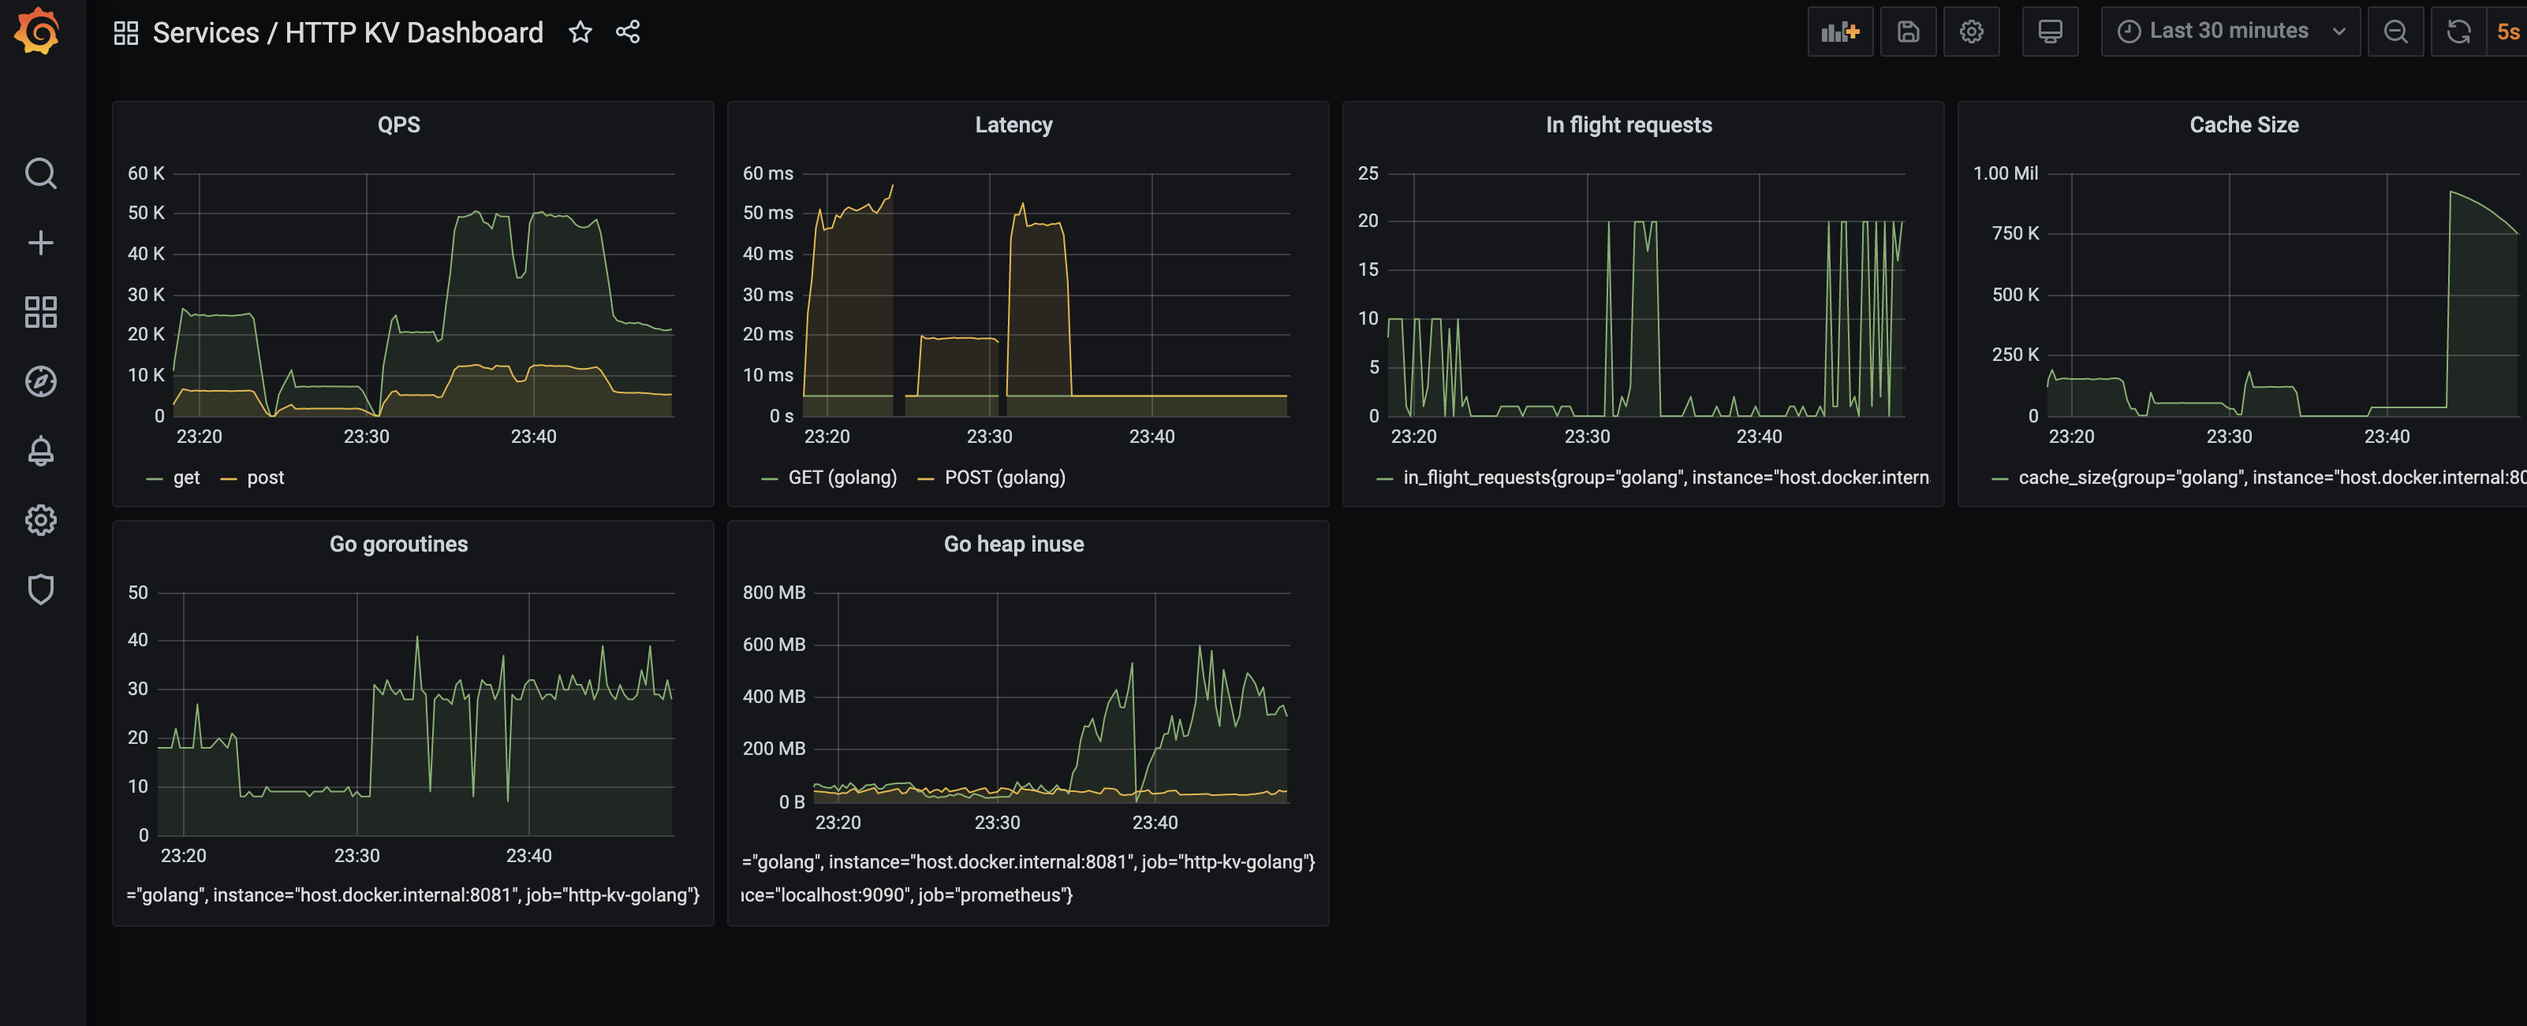
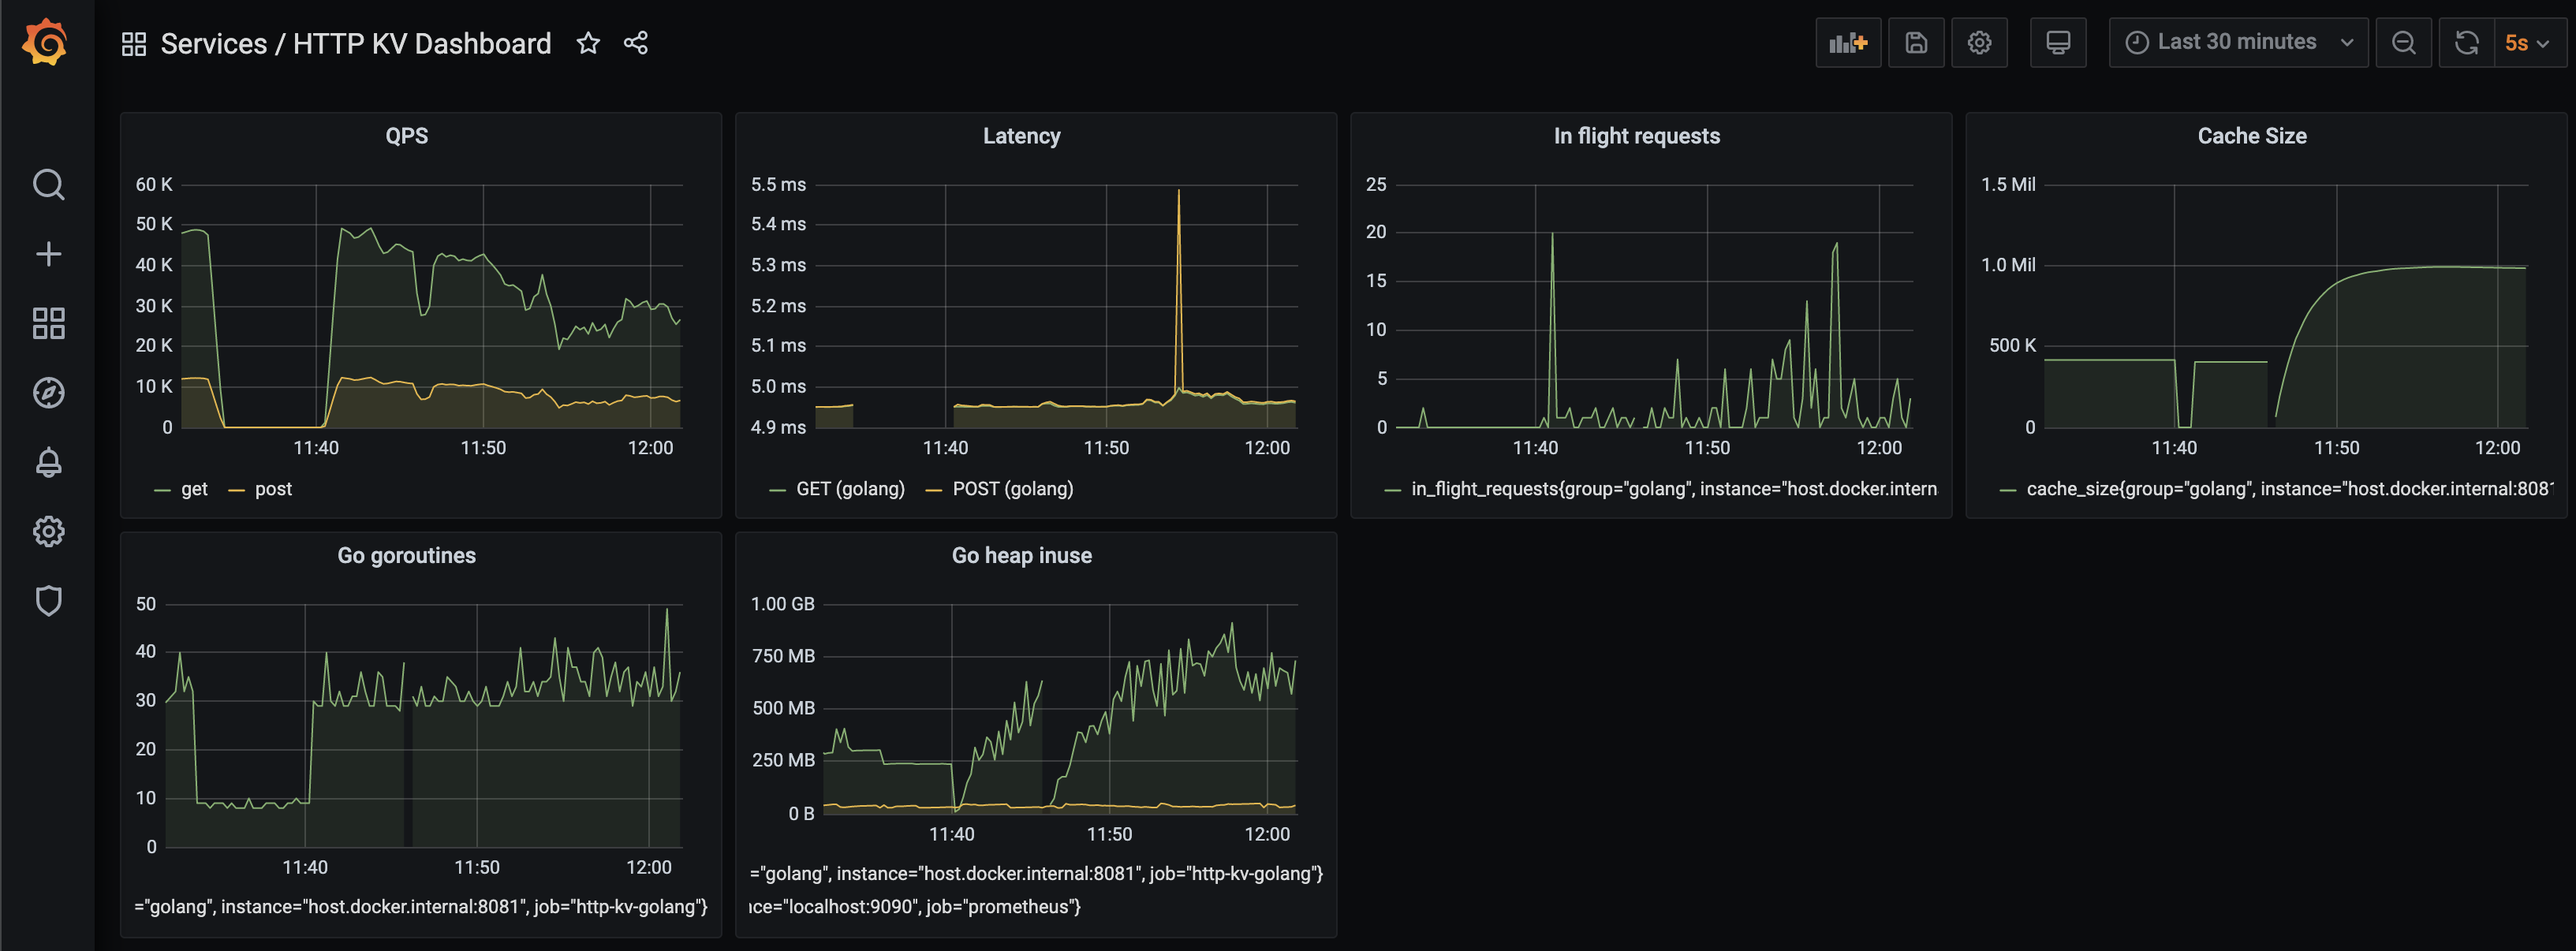
Use an async counter and set min vaccum loop sleep time to increase performance

diff --git a/golang/cache/cache.go b/golang/cache/cache.go
@@ -34,11 +34,12 @@ type Cache interface {
 type SyncmapCache struct {
 	expireDuration time.Duration
 	m              syncmap.Map
+	c              *counter
 }
 
 // NewSyncmapCache is for creating a new SyncmapCache
 func NewSyncmapCache(expireDuration time.Duration) *SyncmapCache {
-	cache := SyncmapCache{m: syncmap.Map{}, expireDuration: expireDuration}
+	cache := SyncmapCache{m: syncmap.Map{}, expireDuration: expireDuration, c: newCounter()}
 	cache.vaccum()
 	return &cache
 }
@@ -53,6 +54,8 @@ func (sc *SyncmapCache) Get(key string) string {
 
 	if time.Now().After(value.timestamp.Add(sc.expireDuration)) {
 		sc.m.Delete(key)
+		sc.c.dec()
+		cacheSizeGauge.Dec()
 		return ""
 	}
 	return value.value
@@ -61,11 +64,24 @@ func (sc *SyncmapCache) Get(key string) string {
 // Set is for impl of Cache for SyncmapCache - set value
 func (sc *SyncmapCache) Set(key string, value string) {
 	v := Value{value: value, timestamp: time.Now()}
+	if _, ok := sc.m.Load(key); !ok {
+		sc.c.inc()
+		cacheSizeGauge.Inc()
+	}
 	sc.m.Store(key, v)
 }
 
 // Size to return the current element size in Cache
 func (sc *SyncmapCache) Size() int {
+	// TODO remove debug print
+	// log.Info("For loop calculate size: ", sc.SizeOld())
+	log.Info("Cache size estimation: ", sc.c.count)
+	return sc.c.count
+}
+
+// SizeOld to return the current element size in Cache, the loop way
+// Deprecated
+func (sc *SyncmapCache) SizeOld() int {
 	length := 0
 	sc.m.Range(func(key, _ interface{}) bool {
 		length++
@@ -75,21 +91,22 @@ func (sc *SyncmapCache) Size() int {
 }
 
 // vaccum method is used for SyncmapCache clean up expired key
+// We set up a minimum sleep time as 10ms durring the key loop to improve overall cache performace during high load
 func (sc *SyncmapCache) vaccum() {
 	log.Info("cache expire time: ", sc.expireDuration)
-	var vaccumCycleDurationMs int64
-	vaccumCycleDurationMs = 60000
+	vaccumCycleDurationMs := int64(60000)
+	minimumSleepMs := int64(10)
 	go func() {
 		for {
 			size := sc.Size()
+			log.Debug("cache size: ", size)
+
 			var sleepMs int64
 			if size <= 1 {
 				sleepMs = vaccumCycleDurationMs
 			} else {
-				sleepMs = vaccumCycleDurationMs / (int64)(size)
+				sleepMs = max(vaccumCycleDurationMs/(int64)(size), minimumSleepMs) // Without slowing down (setting a max 10ms sleep time) it can reduce performace with many key expires at the same time
 			}
-			log.Debug("cache size: ", size)
-			cacheSizeGauge.Set(float64(size))
 
 			if size == 0 {
 				log.Debug("vaccum sleep: ", sleepMs, "ms")
@@ -103,6 +120,8 @@ func (sc *SyncmapCache) vaccum() {
 					if time.Now().After(value.timestamp.Add(sc.expireDuration)) {
 						log.Debug("deleting key:", key)
 						sc.m.Delete(key)
+						sc.c.dec()
+						cacheSizeGauge.Dec()
 					}
 					return true
 				})
@@ -111,9 +130,9 @@ func (sc *SyncmapCache) vaccum() {
 	}()
 }
 
-func min(x, y int64) int64 {
+func max(x, y int64) int64 {
 	if x < y {
-		return x
+		return y
 	}
-	return y
+	return x
 }

diff --git a/golang/cache/cache_test.go b/golang/cache/cache_test.go
@@ -9,19 +9,44 @@ func TestCache(t *testing.T) {
 	shortCache := NewSyncmapCache(time.Duration(1) * time.Second)
 
 	value1 := shortCache.Get("key1")
+	size := shortCache.Size()
 	if value1 != "" {
 		t.Errorf("value1 not empty, having value '%v'", value1)
+	}
+	if size != 0 {
+		t.Errorf("size is not 0 but '%v'", size)
 	}
 
 	shortCache.Set("key1", "value1")
 	value1 = shortCache.Get("key1")
+	time.Sleep(time.Duration(100) * time.Millisecond)
+	size = shortCache.Size()
 	if value1 != "value1" {
 		t.Errorf("value1 is not 'value1' but '%v'", value1)
+	}
+	if size != 1 {
+		t.Errorf("size is not 1 but '%v'", size)
 	}
 
 	time.Sleep(time.Duration(2) * time.Second)
 	value1 = shortCache.Get("key1")
+	size = shortCache.Size()
 	if value1 != "" {
 		t.Errorf("value1 not empty, having value '%v'", value1)
+	}
+	if size != 0 {
+		t.Errorf("size is not 0 but '%v'", size)
+	}
+}
+
+func TestCounter(t *testing.T) {
+	c := newCounter()
+
+	c.inc()
+	c.inc()
+
+	time.Sleep(time.Duration(100) * time.Millisecond)
+	if c.count != 2 {
+		t.Errorf("counter count is not 2 but '%v'", c.count)
 	}
 }

diff --git a/golang/cache/counter.go b/golang/cache/counter.go
@@ -1,0 +1,26 @@
+package cache
+
+type counter struct {
+	ch    chan int
+	count int
+}
+
+func newCounter() *counter {
+	ch := make(chan int, 1000000)
+	c := counter{ch: ch, count: 0}
+	go func() {
+		for {
+			v := <-c.ch
+			c.count += v
+		}
+	}()
+	return &c
+}
+
+func (c *counter) inc() {
+	c.ch <- 1
+}
+
+func (c *counter) dec() {
+	c.ch <- -1
+}

diff --git a/golang/main.go b/golang/main.go
@@ -15,7 +15,7 @@ import (
 	"example.com/hello/cache"
 )
 
-const ExpireDurationStr = "5m"
+const ExpireDurationStr = "10m"
 
 func init() {
 	log.SetLevel(log.InfoLevel)

diff --git a/golang/README.md b/golang/README.md
@@ -1,6 +1,6 @@
 # Simple HTTP KV server in Golang
 
-Start server:
+### Start server:
 ```
 go run main.go
 
@@ -8,25 +8,27 @@ INFO[2020-10-03T11:07:10+02:00] cache expire time: 10000ms
 INFO[2020-10-03T11:07:10+02:00] Starting server on 8081 ...
 ```
 
-Test server manually
+### Test server manually
 ```
 curl -X POST localhost:8081/k1 -d 'v1'
 curl -X POST localhost:8081/size
 curl -X GET localhost:8081/k1
 ```
 
-Run unit tests
+### Run unit tests
 ```
 go test ./...
 ```
+
+### Simple Performance test
 
 Use this https://github.com/liufuyang/autocannon-go for some simple performance test, getting some metrics from client size
 
 ```
 # at root directory of autocannon-go
-go build && ./autocannon-go --connections=10 --pipelining=10 --duration=30 --uri=http://localhost:8081
-running 30s test @ http://localhost:8081
-10 connections with 10 pipelining factor.
+go build && ./autocannon-go --connections=20 --pipelining=10 --duration=300 --uri=http://localhost:8081
+running 300s test @ http://localhost:8081
+20 connections with 10 pipelining factor.
 Generated  100000000  random int, with range [0,  1000000 ).
 
 ---------- Read/GET ----------
@@ -34,43 +36,47 @@ Generated  100000000  random int, with range [0,  1000000 ).
 +---------+------+------+-------+------+---------+---------+--------+
 |  STAT   | 2.5% | 50%  | 97.5% | 99%  |   AVG   |  STDEV  |  MAX   |
 +---------+------+------+-------+------+---------+---------+--------+
-| Latency | 0 ms | 1 ms | 2 ms  | 3 ms | 1.06 ms | 2.63 ms | 363 ms |
+| Latency | 1 ms | 3 ms | 4 ms  | 7 ms | 2.79 ms | 3.19 ms | 295 ms |
 +---------+------+------+-------+------+---------+---------+--------+
-
 
 +-----------+--------+--------+--------+--------+----------+---------+--------+
 |   STAT    |   1%   |  2.5%  |  50%   | 97.5%  |   AVG    |  STDEV  |  MIN   |
 +-----------+--------+--------+--------+--------+----------+---------+--------+
-| Req/Sec   |  31890 |  31890 |  51789 |  58167 | 51299.63 | 5046.04 |  31890 |
-| Bytes/Sec | 3.0 MB | 3.0 MB | 4.9 MB | 5.5 MB | 4.8 MB   | 473 kB  | 3.0 MB |
+| Req/Sec   |  36447 |  38619 |  49174 |  55123 | 48620.78 | 4017.16 |  21414 |
+| Bytes/Sec | 3.4 MB | 3.6 MB | 4.6 MB | 5.1 MB | 4.5 MB   | 373 kB  | 2.0 MB |
 +-----------+--------+--------+--------+--------+----------+---------+--------+
 
 Req/Bytes counts sampled once per second.
 
+14550044 2xx responses, 0 non 2xx responses.
+14550k total requests in 300 seconds, 1.4 GB read for GET.
 
-1538990 2xx responses, 0 non 2xx responses.
-1539k total requests in 30 seconds, 144 MB read for GET.
 
 ---------- Write/POST ----------
 
 +---------+------+------+-------+------+---------+---------+--------+
 |  STAT   | 2.5% | 50%  | 97.5% | 99%  |   AVG   |  STDEV  |  MAX   |
 +---------+------+------+-------+------+---------+---------+--------+
-| Latency | 0 ms | 1 ms | 2 ms  | 3 ms | 1.07 ms | 3.41 ms | 363 ms |
+| Latency | 1 ms | 3 ms | 4 ms  | 8 ms | 2.82 ms | 3.67 ms | 293 ms |
 +---------+------+------+-------+------+---------+---------+--------+
-
 
 +-----------+--------+--------+--------+--------+----------+---------+--------+
 |   STAT    |   1%   |  2.5%  |  50%   | 97.5%  |   AVG    |  STDEV  |  MIN   |
 +-----------+--------+--------+--------+--------+----------+---------+--------+
-| Req/Sec   |   8000 |   8000 |  12957 |  14427 | 12835.43 | 1267.15 |   8000 |
-| Bytes/Sec | 752 kB | 752 kB | 1.2 MB | 1.4 MB | 1.2 MB   | 119 kB  | 752 kB |
+| Req/Sec   |   8982 |   9641 |  12263 |  13887 | 12154.60 | 1011.21 |   5422 |
+| Bytes/Sec | 844 kB | 906 kB | 1.2 MB | 1.3 MB | 1.1 MB   | 95 kB   | 510 kB |
 +-----------+--------+--------+--------+--------+----------+---------+--------+
 
 Req/Bytes counts sampled once per second.
 
-
-385063 2xx responses, 0 non 2xx responses.
-385k total requests in 30 seconds, 36 MB read for POST.
+3637402 2xx responses, 0 non 2xx responses.
+3637k total requests in 300 seconds, 342 MB read for POST.
 Done!
 ```
+
+## Prometheus and Grafana
+
+See the [prometheus](..//prometheus) folder for details to see how to start Prometheus and Grafana to monitor the server metrics
+
+A graph during some performance testing
+![demo](../demo.png)

diff --git a/README.md b/README.md
@@ -4,11 +4,11 @@ Some http server example that can store key value
 
 ## Golang implementation
 
-See [golang](./golang) folder for details
+See [golang](./golang) folder for details to see how to start the backend server, and how to do some simple load testing (GET/POST in 80/20 ratio)
 
 ## Prometheus and Grafana
 
-See the [prometheus](./prometheus) folder for details
+See the [prometheus](./prometheus) folder for details to see how to start Prometheus and Grafana to monitor the server metrics
 
 A graph during some performance testing
 ![demo](demo.png)

diff --git a/prometheus/README.md b/prometheus/README.md
@@ -25,3 +25,6 @@ histogram_quantile(0.99, sum(rate(request_duration_seconds_bucket{method="get"}[
 
 histogram_quantile(0.99, sum(rate(request_duration_seconds_bucket{method="post"}[1m])) by (le))
 ```
+
+More info [here](https://godoc.org/github.com/prometheus/client_golang/prometheus/promhttp#InstrumentHandlerDuration)
+and [here](https://prometheus.io/docs/practices/histograms/)
